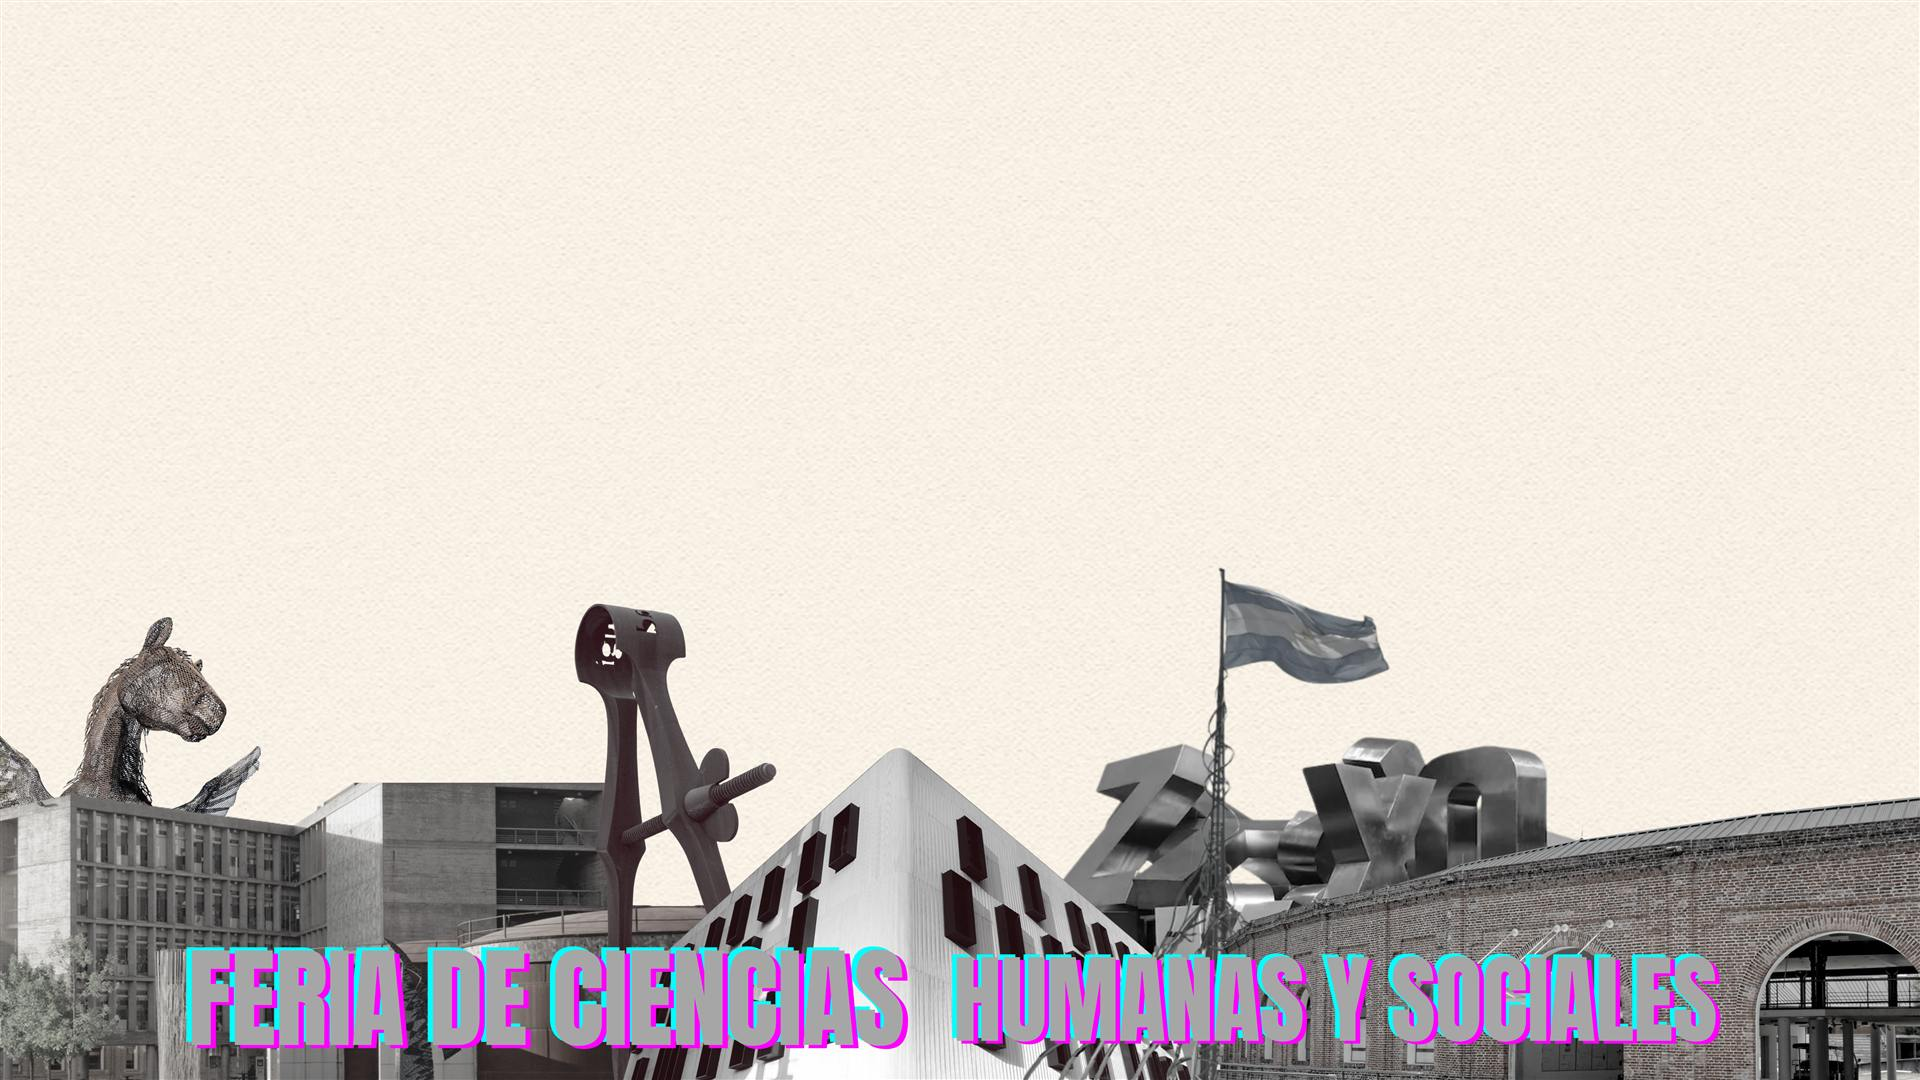
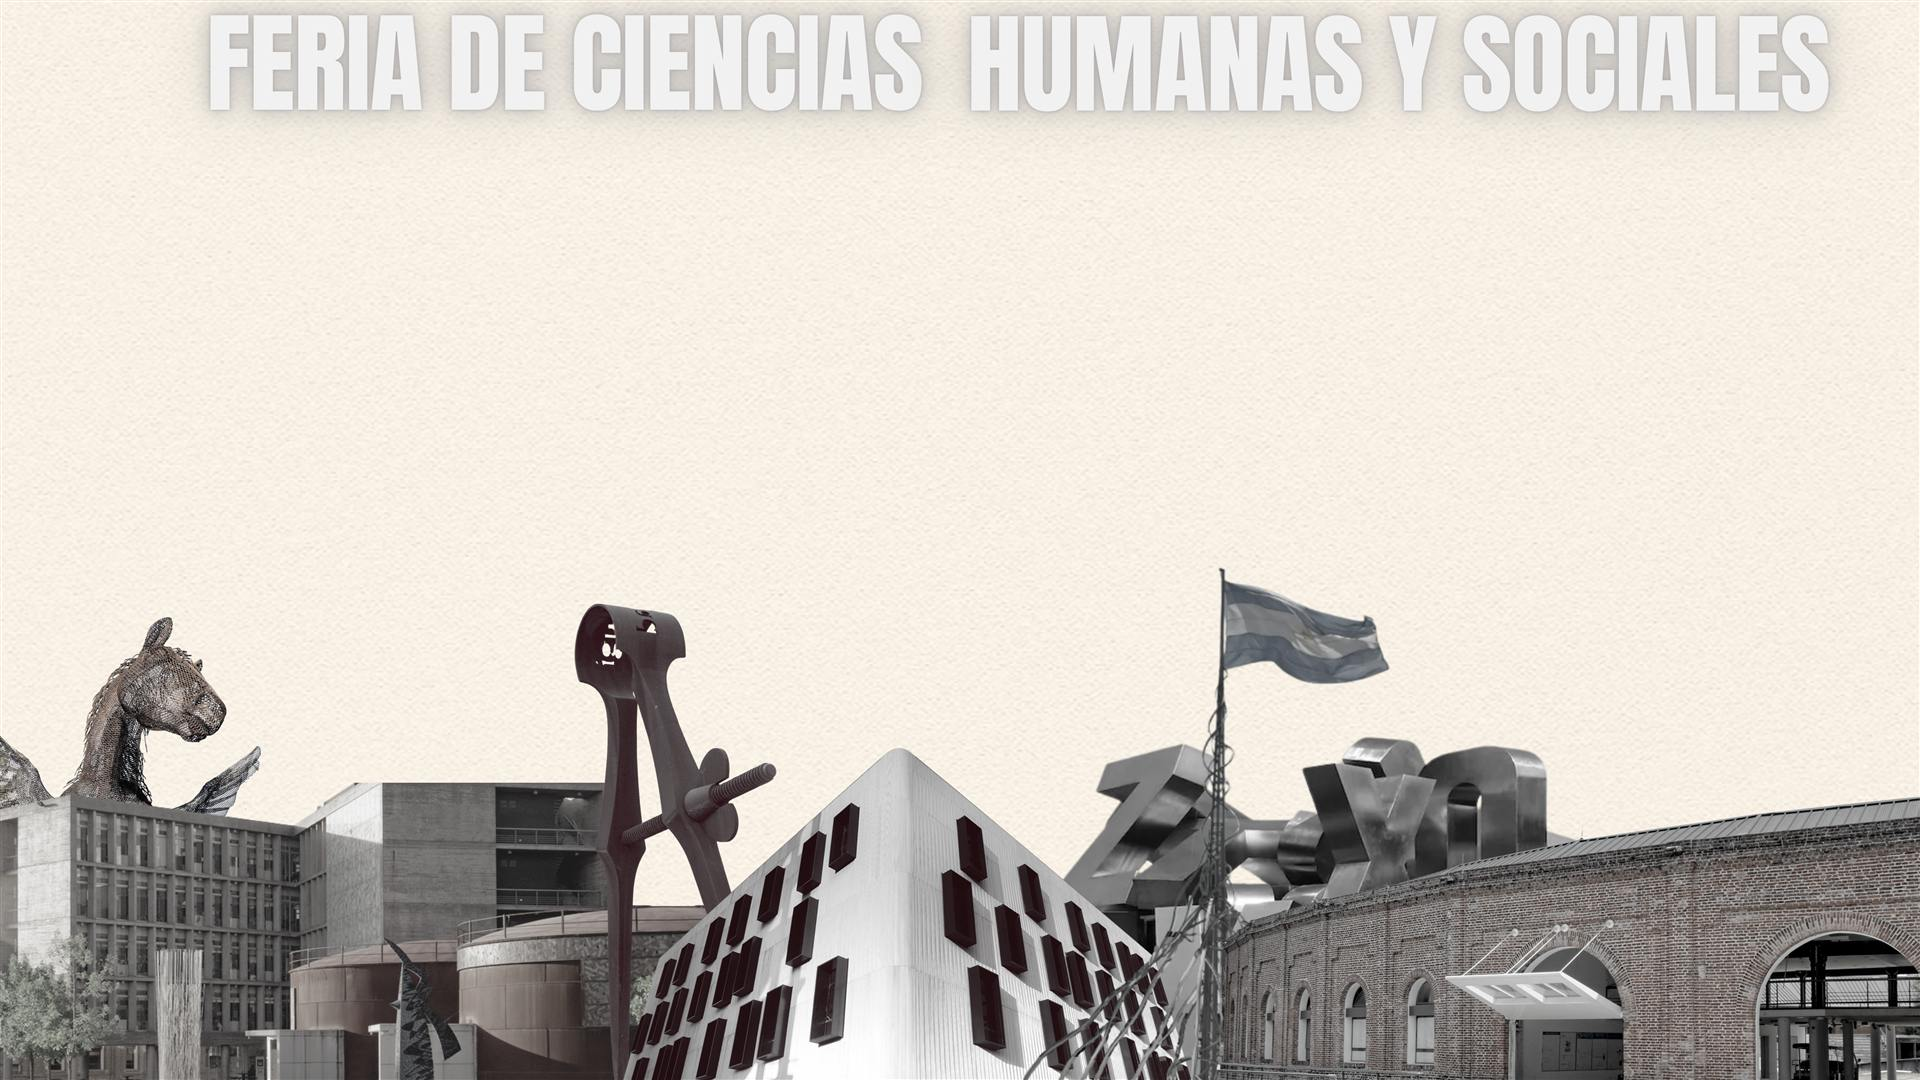
Tune route performance and locality visuals

Changed region(s): [[0.0938, 0.0, 0.9688, 0.1222], [0.0938, 0.8556, 0.9062, 0.9778]]

diff --git a/script.js b/script.js
@@ -22,18 +22,21 @@ document.addEventListener('DOMContentLoaded', () => {
     const criticalPreloadTargets = [
         'CIENCIA Y FICCION.png',
         'El camino de la investigación.png',
+        'assets/feria-fondo.jpg'
+    ];
+
+    const routePreloadTargets = [
         'EL CAMINO DE LA INVESTIGACION-TITULO.png',
         'ASPAS FERIA.svg',
-        'colectivo_animado.gif',
-        'assets/feria-fondo.jpg',
         'SAN MARTIN LOCALIDADES.geojson',
+        'colectivo_animado.gif',
+        'posta1.gif',
+        'posta2.gif',
         posta2Slides[0]
     ];
 
     const deferredPreloadTargets = [
         'tren_animado.gif',
-        'posta1.gif',
-        'posta2.gif',
         'deposito_animado.gif',
         'deposito_tren_final.gif',
         'miguelete.gif',
@@ -61,7 +64,7 @@ document.addEventListener('DOMContentLoaded', () => {
                 settled = true;
                 resolve();
             };
-            const timeout = setTimeout(done, 4500);
+            const timeout = setTimeout(done, 3200);
             if (/\.(png|jpe?g|gif|svg|webp)$/i.test(src)) {
                 const img = new Image();
                 img.decoding = 'async';
@@ -85,11 +88,12 @@ document.addEventListener('DOMContentLoaded', () => {
                 updatePreloadStatus(done, criticalPreloadTargets.length);
             });
         });
-        const startDeferred = () => preloadQueue(deferredPreloadTargets, 2);
+        preloadQueue(routePreloadTargets, 1);
+        const startDeferred = () => preloadQueue(deferredPreloadTargets, 1);
         if ('requestIdleCallback' in window) {
-            requestIdleCallback(startDeferred, { timeout: 3500 });
+            requestIdleCallback(startDeferred, { timeout: 2200 });
         } else {
-            setTimeout(startDeferred, 1800);
+            setTimeout(startDeferred, 1400);
         }
     }
 
@@ -1657,7 +1661,7 @@ document.addEventListener('DOMContentLoaded', () => {
             outline.setAttribute('class', `locality-boundary-outline${isActive ? ' active' : ''}`);
             outline.setAttribute('d', d);
             outline.setAttribute('stroke', color);
-            outline.style.filter = `drop-shadow(0 0 ${isActive ? 18 : 10}px ${color}) drop-shadow(0 0 ${isActive ? 34 : 18}px ${color})`;
+            outline.style.filter = `drop-shadow(0 0 ${isActive ? 10 : 5}px ${color})`;
             svg.appendChild(outline);
 
             const fill = document.createElementNS('http://www.w3.org/2000/svg', 'path');
@@ -1665,7 +1669,7 @@ document.addEventListener('DOMContentLoaded', () => {
             fill.setAttribute('d', d);
             fill.setAttribute('fill', color);
             fill.setAttribute('stroke', color);
-            fill.style.filter = `drop-shadow(0 0 ${isActive ? 14 : 6}px ${color})`;
+            fill.style.filter = `drop-shadow(0 0 ${isActive ? 6 : 2}px ${color})`;
             svg.appendChild(fill);
         });
     }
@@ -1833,16 +1837,16 @@ document.addEventListener('DOMContentLoaded', () => {
             { id: 'satellite-layer', type: 'raster', source: 'esri-satellite', minzoom: 0, maxzoom: 19, paint: { 'raster-fade-duration': 0 } },
             { id: 'transportation-layer', type: 'raster', source: 'esri-transportation', minzoom: 0, maxzoom: 18, paint: { 'raster-opacity': 0.3, 'raster-fade-duration': 0 } },
             { id: 'labels-layer', type: 'raster', source: 'esri-labels', minzoom: 0, maxzoom: 18, paint: { 'raster-opacity': 0.3, 'raster-fade-duration': 0 } },
-            { id: 'san-martin-base-fill', type: 'fill', source: 'sm-locality-shape', paint: { 'fill-color': ['coalesce', ['get', 'fill'], '#29b6f6'], 'fill-opacity': 0.36 } },
-            { id: 'san-martin-map-fill', type: 'fill', source: 'sm-locality-shape', paint: { 'fill-color': ['coalesce', ['get', 'fill'], '#29b6f6'], 'fill-opacity': 0.34 } },
-            { id: 'san-martin-map-boundary-glow', type: 'line', source: 'sm-locality-shape', layout: { 'line-join': 'round', 'line-cap': 'round' }, paint: { 'line-color': ['coalesce', ['get', 'fill'], '#29b6f6'], 'line-width': 24, 'line-blur': 13, 'line-opacity': 0.95 } },
-            { id: 'san-martin-map-boundary-core', type: 'line', source: 'sm-locality-shape', layout: { 'line-join': 'round', 'line-cap': 'round' }, paint: { 'line-color': ['coalesce', ['get', 'fill'], '#ffffff'], 'line-width': 7, 'line-opacity': 1 } },
+            { id: 'san-martin-base-fill', type: 'fill', source: 'sm-locality-shape', paint: { 'fill-color': ['coalesce', ['get', 'fill'], '#29b6f6'], 'fill-opacity': 0.16 } },
+            { id: 'san-martin-map-fill', type: 'fill', source: 'sm-locality-shape', paint: { 'fill-color': ['coalesce', ['get', 'fill'], '#29b6f6'], 'fill-opacity': 0.14 } },
+            { id: 'san-martin-map-boundary-glow', type: 'line', source: 'sm-locality-shape', layout: { 'line-join': 'round', 'line-cap': 'round' }, paint: { 'line-color': ['coalesce', ['get', 'fill'], '#29b6f6'], 'line-width': 13, 'line-blur': 9, 'line-opacity': 0.48 } },
+            { id: 'san-martin-map-boundary-core', type: 'line', source: 'sm-locality-shape', layout: { 'line-join': 'round', 'line-cap': 'round' }, paint: { 'line-color': ['coalesce', ['get', 'fill'], '#ffffff'], 'line-width': 4, 'line-opacity': 0.76 } },
             { id: 'san-martin-map-locality-labels', type: 'symbol', source: 'sm-locality-shape', layout: { 'text-field': ['get', 'Localidad'], 'text-font': ['Open Sans Bold', 'Arial Unicode MS Bold'], 'text-size': 24, 'text-anchor': 'center', 'text-allow-overlap': true, 'text-ignore-placement': true }, paint: { 'text-color': '#ffffff', 'text-halo-color': '#001018', 'text-halo-width': 4, 'text-opacity': 0 } },
-            { id: 'san-martin-active-fill', type: 'fill', source: 'sm-locality-shape', paint: { 'fill-color': ['coalesce', ['get', 'fill'], '#29b6f6'], 'fill-opacity': 0.52 }, filter: ['==', 'id', -1] },
+            { id: 'san-martin-active-fill', type: 'fill', source: 'sm-locality-shape', paint: { 'fill-color': ['coalesce', ['get', 'fill'], '#29b6f6'], 'fill-opacity': 0.25 }, filter: ['==', 'id', -1] },
             { id: 'san-martin-active-labels', type: 'symbol', source: 'sm-locality-shape', layout: { 'text-field': ['get', 'Localidad'], 'text-font': ['Open Sans Bold', 'Arial Unicode MS Bold'], 'text-size': 24, 'text-anchor': 'center' }, paint: { 'text-color': '#ffffff', 'text-halo-color': '#000000', 'text-halo-width': 2, 'text-opacity': 0 }, filter: ['==', 'id', -1] },
-            { id: 'san-martin-base-glow', type: 'line', source: 'sm-locality-shape', layout: { 'line-join': 'round', 'line-cap': 'round' }, paint: { 'line-color': ['coalesce', ['get', 'fill'], '#29b6f6'], 'line-width': 14, 'line-blur': 8, 'line-opacity': 0.82 } },
-            { id: 'san-martin-active-glow', type: 'line', source: 'sm-locality-shape', layout: { 'line-join': 'round', 'line-cap': 'round' }, paint: { 'line-color': ['coalesce', ['get', 'fill'], '#29b6f6'], 'line-width': 35, 'line-blur': 20, 'line-opacity': 1 }, filter: ['==', 'id', -1] },
-            { id: 'san-martin-core', type: 'line', source: 'sm-locality-shape', layout: { 'line-join': 'round', 'line-cap': 'round' }, paint: { 'line-color': '#ffffff', 'line-width': 3 } },
+            { id: 'san-martin-base-glow', type: 'line', source: 'sm-locality-shape', layout: { 'line-join': 'round', 'line-cap': 'round' }, paint: { 'line-color': ['coalesce', ['get', 'fill'], '#29b6f6'], 'line-width': 8, 'line-blur': 6, 'line-opacity': 0.42 } },
+            { id: 'san-martin-active-glow', type: 'line', source: 'sm-locality-shape', layout: { 'line-join': 'round', 'line-cap': 'round' }, paint: { 'line-color': ['coalesce', ['get', 'fill'], '#29b6f6'], 'line-width': 18, 'line-blur': 12, 'line-opacity': 0.68 }, filter: ['==', 'id', -1] },
+            { id: 'san-martin-core', type: 'line', source: 'sm-locality-shape', layout: { 'line-join': 'round', 'line-cap': 'round' }, paint: { 'line-color': '#ffffff', 'line-width': 2, 'line-opacity': 0.7 } },
             { id: 'san-martin-labels', type: 'symbol', source: 'sm-locality-shape', layout: { 'text-field': ['get', 'Localidad'], 'text-font': ['Open Sans Bold', 'Arial Unicode MS Bold'], 'text-size': 20, 'text-anchor': 'center' }, paint: { 'text-color': ['coalesce', ['get', 'fill'], '#29b6f6'], 'text-halo-color': 'rgba(0,0,0,0.8)', 'text-halo-width': 3, 'text-opacity': 0 } }
         ]
     };
@@ -2195,10 +2199,10 @@ document.addEventListener('DOMContentLoaded', () => {
         const depot10El = document.createElement('img');
         depot10El.src = 'deposito_tren_final.gif';
         depot10El.className = 'posta1-gif';
-        depot10El.style.width = Math.round(depotConf.size * 1.25) + 'px';
+        depot10El.style.width = Math.round(depotConf.size * 1.06) + 'px';
         depot10El.style.zIndex = 50;
         window.depot10MarkerEl = depot10El;
-        window.depot10MarkerObj = new maplibregl.Marker({element: wrapMarkerEl(depot10El), anchor: 'bottom', offset: [depotConf.offX, depotConf.offY]}).setLngLat(fullPathArray[fullPathArray.length - 1]).addTo(map);
+        window.depot10MarkerObj = new maplibregl.Marker({element: wrapMarkerEl(depot10El), anchor: 'bottom', offset: [depotConf.offX, depotConf.offY + 220]}).setLngLat(fullPathArray[fullPathArray.length - 1]).addTo(map);
         bringSanMartinMapLayersToFront();
     });
 
@@ -2303,6 +2307,15 @@ document.addEventListener('DOMContentLoaded', () => {
             pathLine = { type: 'LineString', coordinates: [start, end] };
         }
 
+        if (mode === 'street' && startIndex === 0 && endIndex === 1 && typeof turf !== 'undefined' && pathLine.coordinates.length > 2) {
+            const firstRoute = turf.lineString(pathLine.coordinates);
+            const routeLength = turf.length(firstRoute, { units: 'kilometers' });
+            if (routeLength > 0.1) {
+                pathLine = turf.lineSliceAlong(firstRoute, routeLength * 0.16, routeLength, { units: 'kilometers' }).geometry;
+                if (pathLine.coordinates.length > 1) mainPinwheelMarker.setLngLat(pathLine.coordinates[0]);
+            }
+        }
+
         if (!trainPathCoords && mode === 'train' && railNetwork && typeof turf !== 'undefined') {
             // Sample the straight line and snap to actual tracks
             const straightLine = turf.lineString([start, end]);
@@ -2348,18 +2361,17 @@ document.addEventListener('DOMContentLoaded', () => {
         if (mode === 'train') speedKmh = 50;
         if (mode === 'flight') speedKmh = 100;
         
-        // Time lapse multiplier (make the simulation 20x faster than real life so it doesn't take 5 minutes)
-        const SIMULATION_SPEEDUP = 24;
+        // Time lapse multiplier: keep the route dynamic and light enough for mobile.
+        const SIMULATION_SPEEDUP = 64;
         
         // Time in hours = distance / (speed * speedup)
         const durationHours = distance / (speedKmh * SIMULATION_SPEEDUP);
         const durationSecs = durationHours * 3600;
         
         // Keep travel readable but lighter on low-end phones.
-        const clampedSecs = Math.max(4, Math.min(26, durationSecs));
+        const clampedSecs = Math.max(2.2, Math.min(12, durationSecs));
         
-        // Assuming 60 frames per second
-        const totalFrames = Math.floor(clampedSecs * 60); 
+        const totalFrames = Math.floor(clampedSecs * 30);
         
         if ((startIndex === 0 && endIndex === 1) || (startIndex === 1 && endIndex === 0)) {
             const interText = document.getElementById('inter-posta-text');
@@ -3229,8 +3241,8 @@ function updateDepotsLive() {
     if (window.depot3MarkerEl) window.depot3MarkerEl.style.width = s + 'px';
     if (window.depot3MarkerObj) window.depot3MarkerObj.setOffset([ox, oy]);
     
-    if (window.depot10MarkerEl) window.depot10MarkerEl.style.width = Math.round(s * 1.25) + 'px';
-    if (window.depot10MarkerObj) window.depot10MarkerObj.setOffset([ox, oy]);
+    if (window.depot10MarkerEl) window.depot10MarkerEl.style.width = Math.round(s * 1.06) + 'px';
+    if (window.depot10MarkerObj) window.depot10MarkerObj.setOffset([ox, oy + 220]);
 }
 
 if (depotSizeSlider) {

diff --git a/style.css b/style.css
@@ -262,8 +262,8 @@ body, html {
 }
 
 .locality-boundary-fill {
-    fill-opacity: 0.18;
-    stroke-width: 1.8;
+    fill-opacity: 0.09;
+    stroke-width: 1.2;
     stroke-linejoin: round;
     stroke-linecap: round;
     vector-effect: non-scaling-stroke;
@@ -272,22 +272,22 @@ body, html {
 
 .locality-boundary-outline {
     fill: none;
-    stroke-width: 7;
+    stroke-width: 4.5;
     stroke-linejoin: round;
     stroke-linecap: round;
-    stroke-opacity: 0.9;
+    stroke-opacity: 0.58;
     vector-effect: non-scaling-stroke;
     transition: stroke-width 0.18s ease, stroke-opacity 0.18s ease;
 }
 
 .locality-boundary-fill.active {
-    fill-opacity: 0.34;
-    stroke-width: 3;
+    fill-opacity: 0.17;
+    stroke-width: 2;
 }
 
 .locality-boundary-outline.active {
-    stroke-width: 13;
-    stroke-opacity: 1;
+    stroke-width: 8;
+    stroke-opacity: 0.82;
 }
 .map-hud {
     position: absolute;
@@ -304,7 +304,7 @@ body, html {
 }
 
 .maplibregl-marker.vehicle-marker {
-    z-index: 260 !important;
+    z-index: 1200 !important;
 }
 
 /* Draggable HUD Elements */

diff --git a/index.html b/index.html
@@ -7,7 +7,7 @@
     <link rel="preconnect" href="https://unpkg.com" crossorigin>
     <link rel="preconnect" href="https://cdnjs.cloudflare.com" crossorigin>
     <link rel="preconnect" href="https://server.arcgisonline.com" crossorigin>
-    <link rel="stylesheet" href="style.css?v=32">
+    <link rel="stylesheet" href="style.css?v=33">
     <link rel="preload" as="image" href="CIENCIA Y FICCION.png" fetchpriority="high">
     <link rel="preload" as="image" href="EL CAMINO DE LA INVESTIGACION-TITULO.png">
     <link rel="preload" as="image" href="ASPAS FERIA.svg">
@@ -203,8 +203,8 @@
     <script src="https://cdnjs.cloudflare.com/ajax/libs/proj4js/2.9.0/proj4.js"></script>
     <!-- Model Viewer -->
     <script type="module" src="https://ajax.googleapis.com/ajax/libs/model-viewer/3.5.0/model-viewer.min.js"></script>
-    <script src="data.js?v=32"></script>
-    <script src="localidades-san-martin-shp.js?v=32"></script>
-    <script src="script.js?v=32"></script>
+    <script src="data.js?v=33"></script>
+    <script src="localidades-san-martin-shp.js?v=33"></script>
+    <script src="script.js?v=33"></script>
 </body>
 </html>